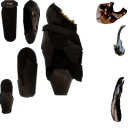
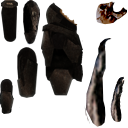
Fixes to huskified humans: - Doubled the scale of the the stinger to make the scale match the new human ragdoll (temp fix, the husks sprites will be remade). - Fixed the Ragdoll.AddJoint method that's used to attach the husk appendage to human ragdolls. - Todo note about humanhusk using human ragdol

Changed region(s): [[0.6562, 0.2812, 0.875, 1.0], [0.875, 0.1875, 1.0, 0.4375]]

diff --git a/Barotrauma/BarotraumaShared/Source/Characters/Animation/Ragdoll.cs b/Barotrauma/BarotraumaShared/Source/Characters/Animation/Ragdoll.cs
@@ -508,37 +508,7 @@ namespace Barotrauma
 
         public void AddJoint(XElement subElement, float scale = 1.0f)
         {
-            byte limb1ID = Convert.ToByte(subElement.Attribute("limb1").Value);
-            byte limb2ID = Convert.ToByte(subElement.Attribute("limb2").Value);
-
-            Vector2 limb1Pos = subElement.GetAttributeVector2("limb1anchor", Vector2.Zero) * scale;
-            limb1Pos = ConvertUnits.ToSimUnits(limb1Pos);
-
-            Vector2 limb2Pos = subElement.GetAttributeVector2("limb2anchor", Vector2.Zero) * scale;
-            limb2Pos = ConvertUnits.ToSimUnits(limb2Pos);
-
-            LimbJoint joint = new LimbJoint(Limbs[limb1ID], Limbs[limb2ID], limb1Pos, limb2Pos);
-            //joint.CanBeSevered = subElement.GetAttributeBool("canbesevered", true);
-
-            if (subElement.Attribute("lowerlimit") != null)
-            {
-                joint.LimitEnabled = true;
-                joint.LowerLimit = float.Parse(subElement.Attribute("lowerlimit").Value) * ((float)Math.PI / 180.0f);
-                joint.UpperLimit = float.Parse(subElement.Attribute("upperlimit").Value) * ((float)Math.PI / 180.0f);
-            }
-
-            GameMain.World.AddJoint(joint);
-
-            for (int i = 0; i < LimbJoints.Length; i++)
-            {
-                if (LimbJoints[i] != null) continue;
-
-                LimbJoints[i] = joint;
-                return;
-            }
-
-            Array.Resize(ref LimbJoints, LimbJoints.Length + 1);
-            LimbJoints[LimbJoints.Length - 1] = joint;
+            AddJoint(new JointParams(subElement, RagdollParams));
         }
 
         protected void AddLimb(LimbParams limbParams)

diff --git a/Barotrauma/BarotraumaShared/Source/Characters/Animation/HumanoidAnimController.cs b/Barotrauma/BarotraumaShared/Source/Characters/Animation/HumanoidAnimController.cs
@@ -21,6 +21,7 @@ namespace Barotrauma
         {
             get
             {
+                //TODO: this causes humanhusks to use the ragdoll params of the human whose info is being used, so the husk doesn't have the stringer
                 if (character.Info == null)
                 {
                     if (_ragdollParams == null)
